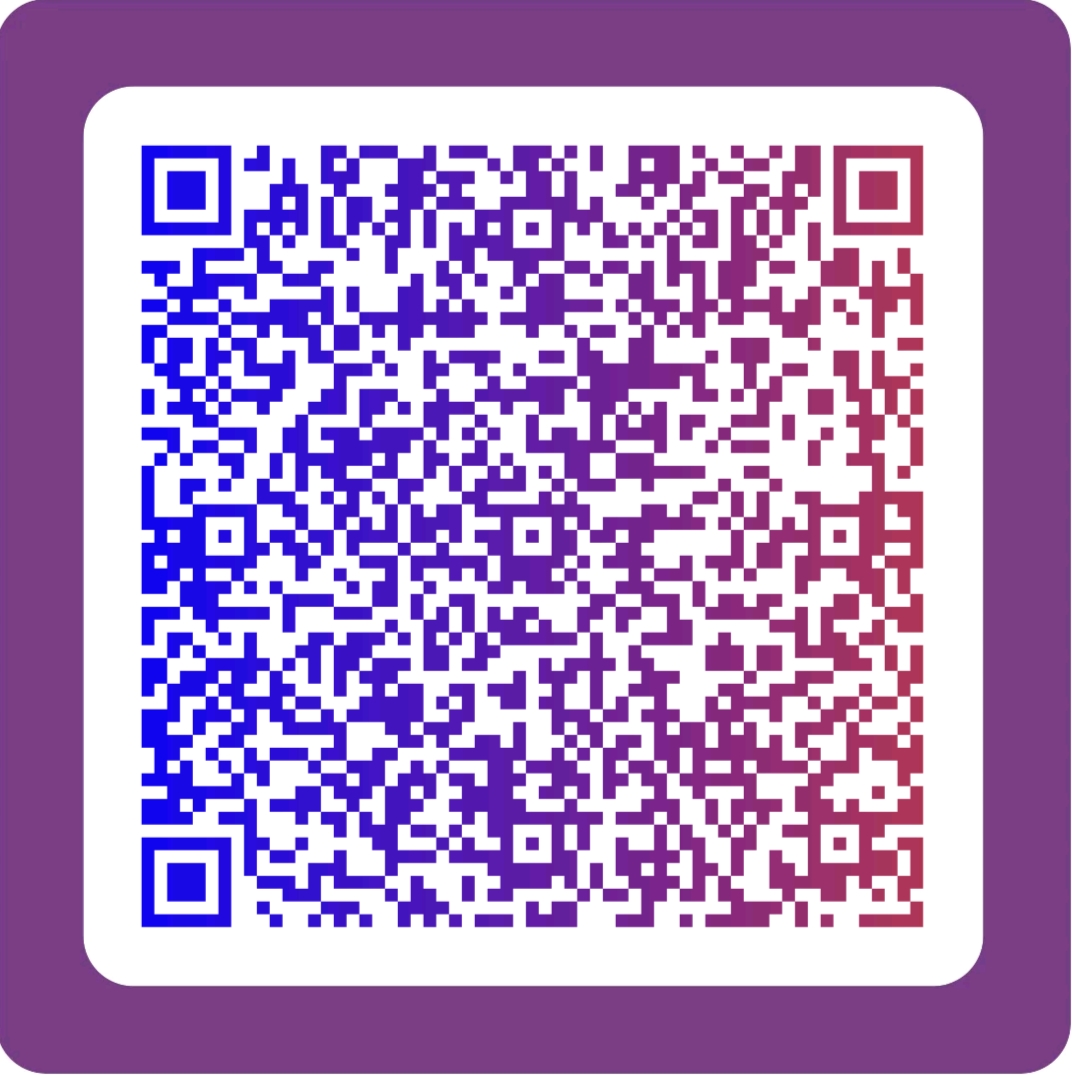
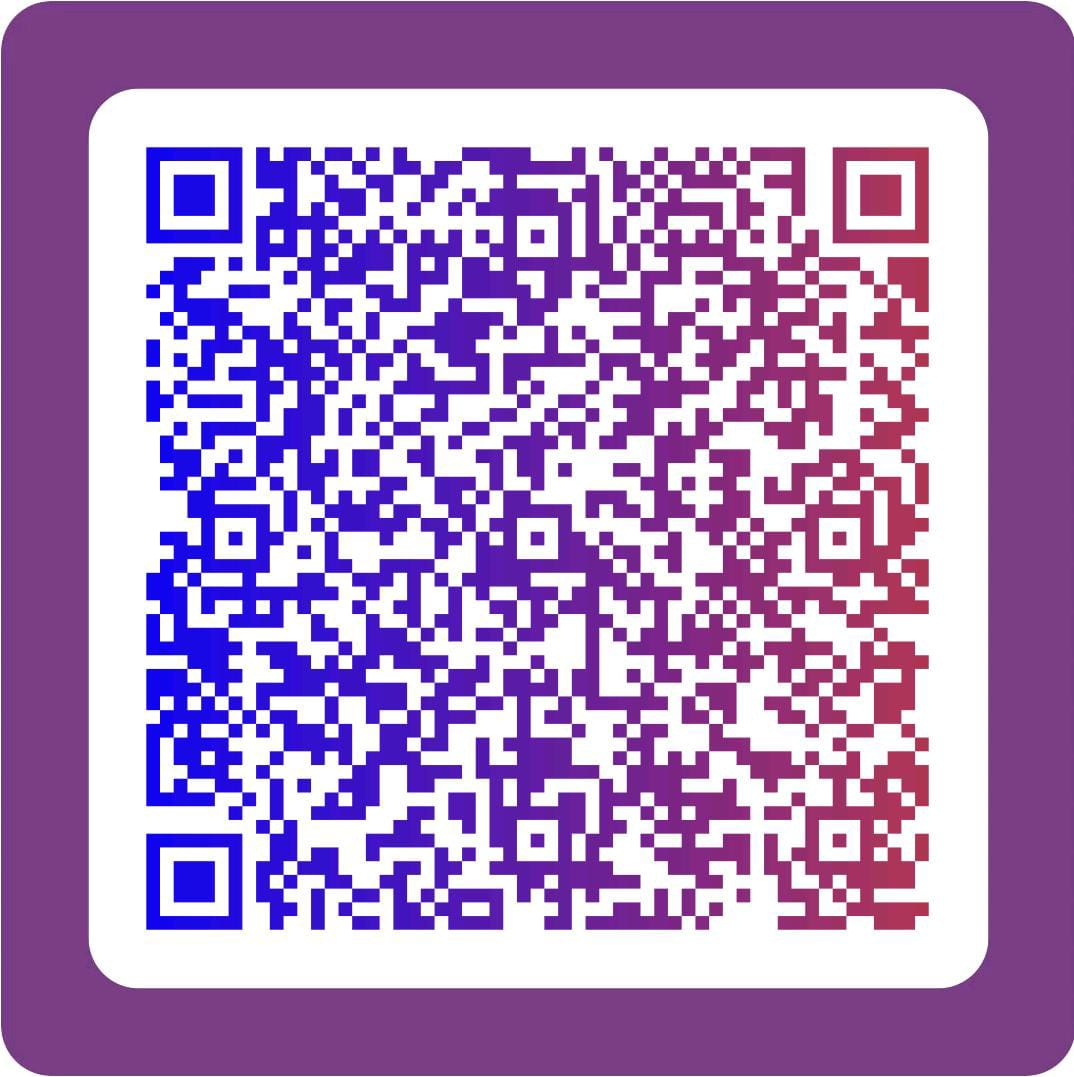
changes made

diff --git a/src/pages/deptPage.jsx b/src/pages/deptPage.jsx
@@ -10,6 +10,7 @@ import { BsArrowUpCircle as Top } from 'react-icons/bs'
 
 
 function DeptPage(props) {
+    window.scrollTo(0,0)
     const cse=deptDetails[0]
     const PPTSection = <EventSection
         eventName={cse.event1.eventTitle}
@@ -62,17 +63,17 @@ function DeptPage(props) {
         )
     }
     return (
-        <div className='deptpage'>
+        <div className='deptpage' data-aos='fade-in' data-aos-duration='2000'>
             <Element className="row justify-se deptpage-div-1">
                 <div className="deptpage-img"></div>
                 <div className="col align-center txt-align-center deptpage-title">
-                    <h1>Department of Computer Science and Engineering</h1>
+                    <h1>Department of Computer Science and Engineering-<span>ITrenders</span></h1>
                     <p>Lorem ipsum dolor sit amet consectetur adipisicing elit. Voluptate, accusamus fugit sequi officiis tempora maxime ullam nemo animi, id molestiae fugiat ipsam natus mollitia nam veritatis voluptatum expedita iste libero? Illum est in earum. Temporibus repudiandae odit rerum culpa omnis?</p>
                     <div className="deptpage-btns">
                         <Link
                             className='link-tag'
-                            to='https://docs.google.com/forms/d/e/1FAIpQLSctdEF5mNAKptZJaaE8say8cbBSBvo6dxJlia5v6eK5mugjng/viewform?fbzx=2426317002727290543'
-                        >Register Now</Link>
+                            to='https://docs.google.com/forms/d/e/1FAIpQLScv_W1hmSG9bEC-hzfnCku2fd32DxzX765lI17prWo-z9nWmw/viewform'
+                        >Register Here</Link>
                         <Link to='/home' className='link-tag'>Home </Link>
                     </div>
                 </div>

diff --git a/src/components/footer.jsx b/src/components/footer.jsx
@@ -12,7 +12,7 @@ function Footer() {
         <div className="col footer-div-1">
           <h2 className='footer-head'  >SENGUNTHAR ENGINEERING COLLEGE</h2>
           <div className="row justify-sb footer-icons" >
-            <span><Insta /></span>
+            <span><Link to={'https://www.instagram.com/sengunthar_t.gode/'}><Insta /></Link></span>
             <span><FB /></span>
             <span><Mail /></span>
           </div>
@@ -25,7 +25,7 @@ function Footer() {
         </div>
         <div className="col align-center footer-div-3">
           <div className="row justify-center footer-img-div">
-            <Link className='link-tag' to='https://docs.google.com/forms/d/e/1FAIpQLSctdEF5mNAKptZJaaE8say8cbBSBvo6dxJlia5v6eK5mugjng/viewform?fbzx=2426317002727290543'>
+            <Link className='link-tag' to='https://docs.google.com/forms/d/e/1FAIpQLScv_W1hmSG9bEC-hzfnCku2fd32DxzX765lI17prWo-z9nWmw/viewform'>
               <img src={qr} alt="registration QR" className='qr-img' />
             </Link>
           </div>

diff --git a/src/components/aboutEvents.jsx b/src/components/aboutEvents.jsx
@@ -4,7 +4,7 @@ import poster from '../assets/poster.png'
 function AboutEvents() {
     return (
         <div className="about-event" data-aos="fade-in" data-aos-offset="0">
-            <h2>Know About Events</h2>
+            <h1>Know About Events</h1>
             <div className="about-event-content row">
                 <div className="about-txt">
                     <p>New beginnings, new friendships, and new horizons – all begin with a warm welcome to you. Delve into the heart of college life by signing up for our upcoming events.</p>
@@ -12,7 +12,7 @@ function AboutEvents() {
                 </div>
                 <div className="about-img"></div>
             </div>
-            <div className="col poster-img-div">
+            <div className="col poster-img-div" data-aos="fade-Up">
                 <h2>SYMPOSIUM POSTER</h2>
                 <img src={poster} alt="Poster-img" className='poster-img' />
             </div>

diff --git a/src/scripts/cardInfo.js b/src/scripts/cardInfo.js
@@ -1,9 +1,11 @@
+/* import {MdDateRange as Icon1} from 'react-icons/md'
+ */
 export const cardDetails=[
     {
         id:'card-1',
         title:'Date and time',
         content:'Sept 26 and Sept 27, Time- 9:30 A.M',
-        content1:'Be on time for the inaugration event without fail.'
+        content1:'Be on time for the Inaugration Program without fail.'
     },
     {
         id:'card-2',
@@ -14,7 +16,7 @@ export const cardDetails=[
     {
         id:'card-3',
         title:'Rs.200/head',
-        content:'Refreshment and Lunch will be provided for every Participants. Accomadation will be provided based on requirement.',
-        content1:'Feel free to contact us'
+        content:'Refreshment and Lunch will be provided.',
+        content1:' Accomadation will be provided based on requirement.'    
     }
 ]

diff --git a/src/stylings/compoStyle/aboutEvents.css b/src/stylings/compoStyle/aboutEvents.css
@@ -2,14 +2,13 @@
     background-color: rgb(77, 65, 90);
     padding: 20px 15%;
 }
-
 .about-txt>p {
     margin: 10px 0px;
+    font-size: 18px;
 }
 .about-img {
     background-color: rgb(52, 25, 68);
-    width:90%;
-    height: 200px;
+    width:100%;
     margin: 0px 20px;
 }
 .poster-img-div{
@@ -18,7 +17,7 @@
     align-items: center;
 }
 .poster-img-div>h2{
-    color: black;
+    color: rgb(26, 3, 41);
     margin: 10px 0;
 }
 .poster-img{
@@ -41,6 +40,7 @@
     }
     .about-txt>p {
         font-size: 12px;
+        margin-bottom: 0px;
     }
     .about-img{
         margin: 0px;
@@ -56,5 +56,6 @@
     .poster-img-div>h2{
         font-size: 15px;
         margin: 0;
+        margin-bottom: 10px;
     }
 }

diff --git a/src/pages/home.jsx b/src/pages/home.jsx
@@ -40,7 +40,7 @@ function Home() {
                 </div>
                 <div className="banner-end txt-align-center">
                     <Link
-                        to='https://docs.google.com/forms/d/e/1FAIpQLSctdEF5mNAKptZJaaE8say8cbBSBvo6dxJlia5v6eK5mugjng/viewform?fbzx=2426317002727290543'
+                        to='https://docs.google.com/forms/d/e/1FAIpQLScv_W1hmSG9bEC-hzfnCku2fd32DxzX765lI17prWo-z9nWmw/viewform'
                         className='link-tag'
                     >Register Now</Link>
                     <p>Awesome adventures await, and you're at the forefront! The doors to unforgettable experiences are swinging open.</p>

diff --git a/src/stylings/pageStyle/home.css b/src/stylings/pageStyle/home.css
@@ -88,9 +88,7 @@
 .dept-nav-head {
      background-color: rgb(28, 0, 46);
 }
-
 .redirect-main {
-    width: 100vw;
     margin: 0px;
     height: fit-content;
     overflow-x: scroll;
@@ -103,10 +101,9 @@
 
 .dept-redirect {
     margin: 0 auto;
-    padding: 0px 20px;
+    padding: 0px 0px;
     display: flex;
-    width: 200vw;
-    background-color: none;
+    width: fit-content;
 }
 
 @media screen and (max-width:576px) {

diff --git a/src/components/simpleCards.jsx b/src/components/simpleCards.jsx
@@ -3,6 +3,7 @@ import '../stylings/compoStyle/card.css'
 import { cardDetails } from '../scripts/cardInfo'
 function SimpleCards() {
     const displayCard = cardDetails.map((card) => {
+        const Icon=card.icon
         return (
             <div className="card" key={card.id} id={card.id}>
                 <h3>{card.title}</h3>

diff --git a/src/index.css b/src/index.css
@@ -13,6 +13,9 @@
   -moz-osx-font-smoothing: grayscale;
   -webkit-text-size-adjust: 100%;
 }
+html::-webkit-scrollbar{
+  width: 5px;
+}
 html::-webkit-scrollbar-track{
   background-color: grey;
   width: 5px;

diff --git a/src/stylings/compoStyle/footer.css b/src/stylings/compoStyle/footer.css
@@ -28,7 +28,7 @@
     width: 60%;
 }
 .qr-img{
-    border-radius: 20px;
+    border-radius: 10px;
     width: 100%;
     height: 100%;
 }

diff --git a/src/stylings/pageStyle/deptpage.css b/src/stylings/pageStyle/deptpage.css
@@ -15,7 +15,7 @@
     width: 80%;
 }
 .deptpage-title>h1{
-    width: 50%;
+    width: 70%;
     line-height: 35px;
 }
 .deptpage-title>p{
